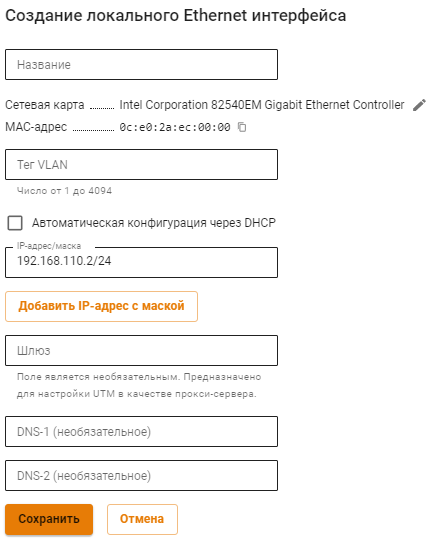
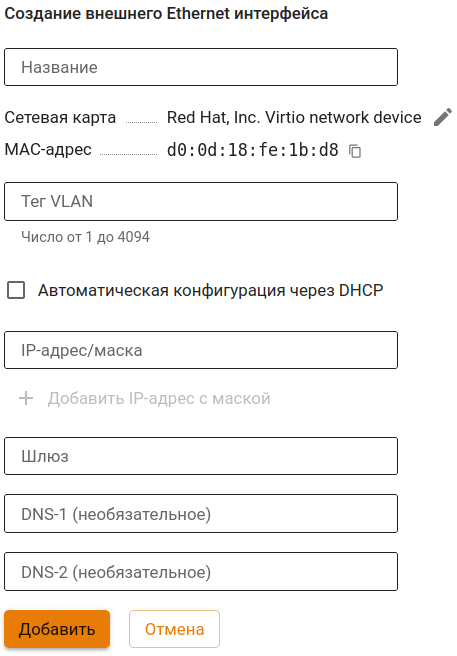
ICS-48348 ЦК. Актуализировать статью Сервисы

Changed region(s): [[0.0, 0.0, 1.0, 1.0]]

diff --git a/settings-cc/services.md b/settings-cc/services.md
@@ -2,19 +2,27 @@
 
 ## Сетевые интерфейсы
 
-В отличие от Ideco NGFW, в Ideco Center создается только локальный Ethernet-интерфейс. Для этого нажмите **Добавить**, выберите сетевую карту и заполните нужные поля:
+При установке Ideco Center создается локальный интерфейс, через который осуществляется управление сервером. В отличие от Ideco NGFW, в веб-интерфейсе Ideco Center можно создавать только внешние Ethernet-интерфейсы для вывода Ideco Center в интернет. Для этого нажмите **Добавить**, выберите сетевую карту и заполните нужные поля:
 
 ![](/.gitbook/assets/cc-interfaces.png)
 
-* **Название интерфейса** - имя для идентификации интерфейса;
-* **Сетевая карта** - сетевой адаптер, который будет использоваться для подключения к интернет-провайдеру;
-* **Тег VLAN**- VLAN ID. Такой сетевой интерфейс считается VLAN-интерфейсом. Заполняется в том случае если сетевая карта уже используется;
-* **Автоматическая настройка через DHCP** - используйте, если интернет-провайдер поддерживает автоматическую настройку Ethernet-интерфейса с помощью протокола DHCP;
-* **IP-адрес/маска** - назначьте на интерфейс минимум один IP-адрес. Если нужно, настройте интерфейс с несколькими IP-адресами;
-* **Шлюз** - IP-адрес шлюза;
+<details>
+
+<summary>Расшифровка полей</summary>
+
+* **Название интерфейса** - имя для идентификации интерфейса.
+* **Сетевая карта** - сетевой адаптер, который будет использоваться для подключения к интернет-провайдеру.
+* **Тег VLAN**- VLAN ID. Такой сетевой интерфейс считается VLAN-интерфейсом. Заполняется в том случае если сетевая карта уже используется.
+* **Автоматическая настройка через DHCP** - используйте, если интернет-провайдер поддерживает автоматическую настройку Ethernet-интерфейса с помощью протокола DHCP.
+* **IP-адрес/маска** - назначьте на интерфейс минимум один IP-адрес. Если нужно, настройте интерфейс с несколькими IP-адресами.
+* **Шлюз** - IP-адрес шлюза.
 * **DNS** - доступно два поля для указания DNS сервера (необязательно).
 
+</details>
+
 {% hint style="danger" %}
+Перенастроить локальный интерфейс в Ideco Center можно через локальное меню.
+
 При создании, редактировании или удалении сетевого интерфейса перевыпускается [SSL-сертификат](/settings/services/certificates/README.md), поэтому вероятно снижение скорости работы веб-интерфейса Ideco Center. В этом случае рекомендуем нажать F5.
 {% endhint %}
 
